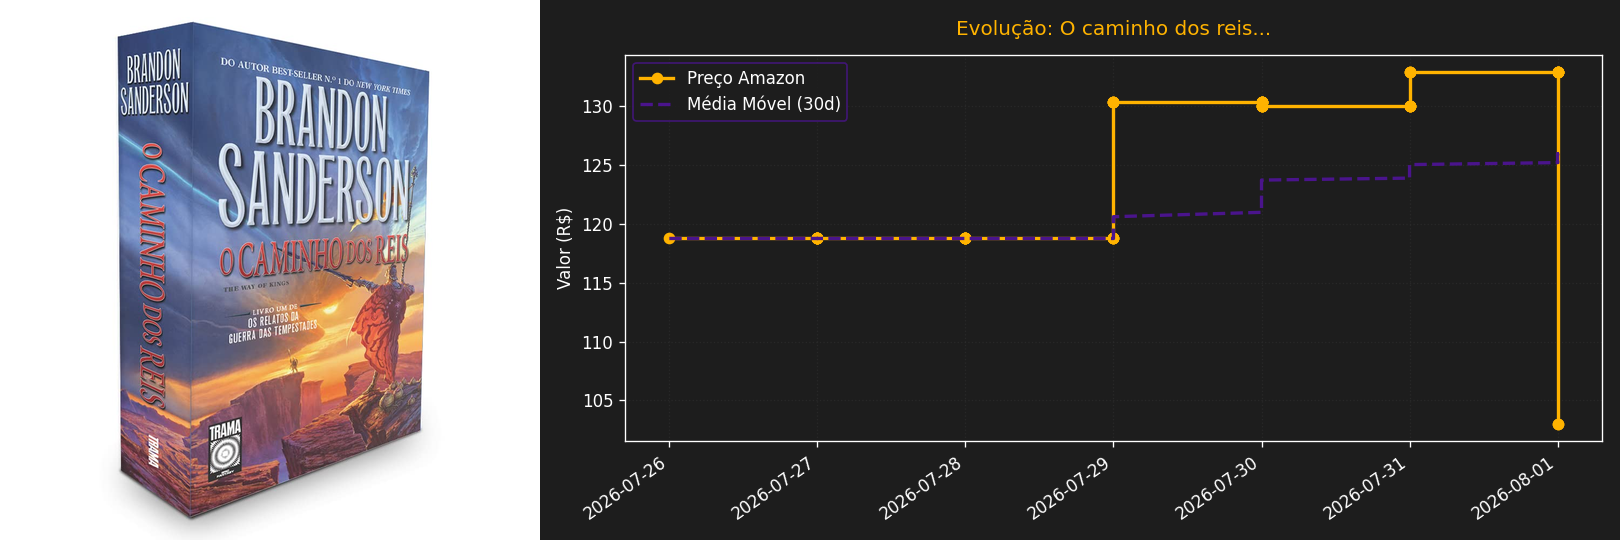
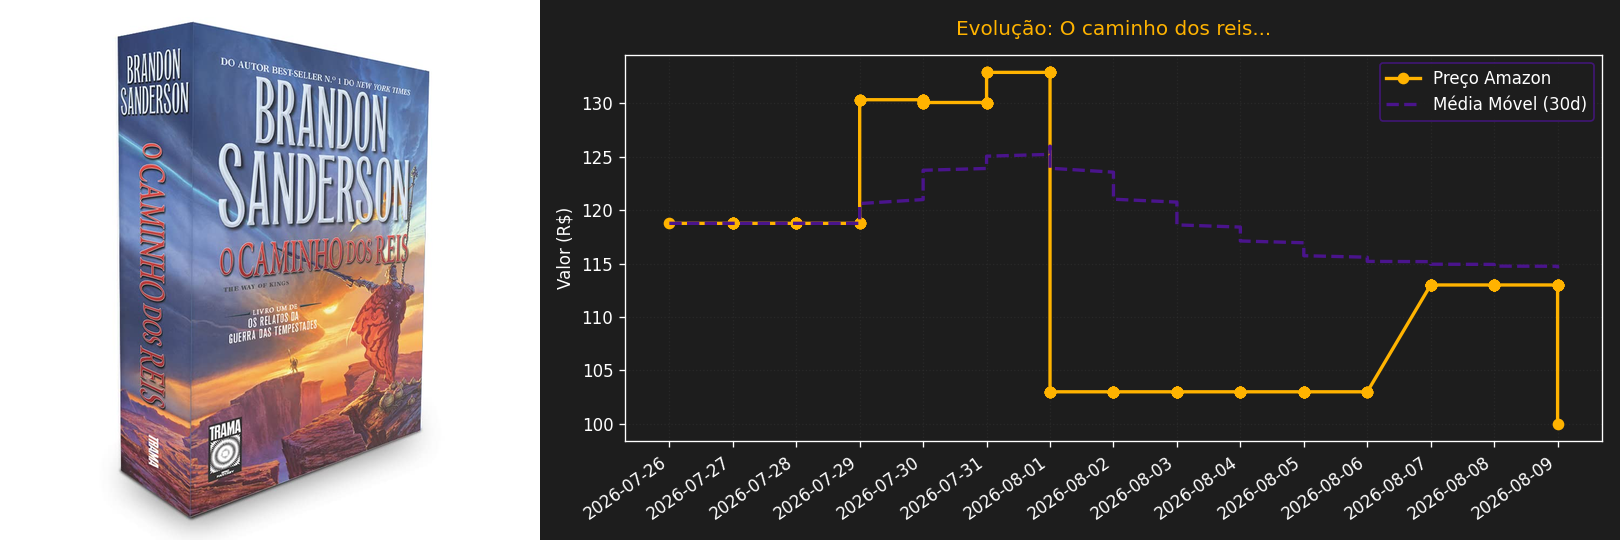
🤖 Bot: Atualização do histórico, portal de ofertas e assets [skip ci]

diff --git a/index.html b/index.html
@@ -5,7 +5,7 @@
     <meta name="viewport" content="width=device-width, initial-scale=1.0">
     <title>Bardo das Promoções | Curadoria de Livros</title>
     <meta name="description" content="Rastreamento matemático de preços de livros de fantasia e sci-fi na Amazon.">
-    <script type="application/ld+json">{"@context": "[https://schema.org](https://schema.org)", "@type": "ItemList", "name": "Promoções Ativas de Fantasia", "itemListElement": [{"@type": "ListItem", "position": 1, "item": {"@type": "Product", "name": "Box Ficção Completa de Edgar Allan Poe", "url": "https://link.amazon/B0bxqDHXJ", "offers": {"@type": "Offer", "priceCurrency": "BRL", "price": 279.9, "availability": "[https://schema.org/InStock](https://schema.org/InStock)"}}}, {"@type": "ListItem", "position": 2, "item": {"@type": "Product", "name": "O sacrifício", "url": "https://link.amazon/B05C027gt", "offers": {"@type": "Offer", "priceCurrency": "BRL", "price": 63.78, "availability": "[https://schema.org/InStock](https://schema.org/InStock)"}}}, {"@type": "ListItem", "position": 3, "item": {"@type": "Product", "name": "A cabeça do santo", "url": "https://link.amazon/B07BZ9Phr", "offers": {"@type": "Offer", "priceCurrency": "BRL", "price": 51.69, "availability": "[https://schema.org/InStock](https://schema.org/InStock)"}}}, {"@type": "ListItem", "position": 4, "item": {"@type": "Product", "name": "A Biblioteca da Meia-Noite", "url": "https://link.amazon/B0ahQKnZG", "offers": {"@type": "Offer", "priceCurrency": "BRL", "price": 40.07, "availability": "[https://schema.org/InStock](https://schema.org/InStock)"}}}, {"@type": "ListItem", "position": 5, "item": {"@type": "Product", "name": "O Hobbit + pôster", "url": "https://link.amazon/B05Sr7Nr7", "offers": {"@type": "Offer", "priceCurrency": "BRL", "price": 43.87, "availability": "[https://schema.org/InStock](https://schema.org/InStock)"}}}, {"@type": "ListItem", "position": 6, "item": {"@type": "Product", "name": "A Ascensão do Dragão", "url": "https://link.amazon/B04OFbHZF", "offers": {"@type": "Offer", "priceCurrency": "BRL", "price": 118.36, "availability": "[https://schema.org/InStock](https://schema.org/InStock)"}}}, {"@type": "ListItem", "position": 7, "item": {"@type": "Product", "name": "O mundo de gelo e fogo", "url": "https://link.amazon/B0bOFsgQ9", "offers": {"@type": "Offer", "priceCurrency": "BRL", "price": 135.28, "availability": "[https://schema.org/InStock](https://schema.org/InStock)"}}}, {"@type": "ListItem", "position": 8, "item": {"@type": "Product", "name": "Box Trilogia O Senhor dos Anéis", "url": "https://link.amazon/B0cOS4omj", "offers": {"@type": "Offer", "priceCurrency": "BRL", "price": 220.07, "availability": "[https://schema.org/InStock](https://schema.org/InStock)"}}}, {"@type": "ListItem", "position": 9, "item": {"@type": "Product", "name": "O cavaleiro dos Sete Reinos", "url": "https://link.amazon/B0e2PzSTe", "offers": {"@type": "Offer", "priceCurrency": "BRL", "price": 78.99, "availability": "[https://schema.org/InStock](https://schema.org/InStock)"}}}, {"@type": "ListItem", "position": 10, "item": {"@type": "Product", "name": "Fogo & Sangue – Volume 1", "url": "https://link.amazon/B01CIGwaZ", "offers": {"@type": "Offer", "priceCurrency": "BRL", "price": 67.14, "availability": "[https://schema.org/InStock](https://schema.org/InStock)"}}}, {"@type": "ListItem", "position": 11, "item": {"@type": "Product", "name": "Box Torre negra", "url": "https://link.amazon/B0czAwuOp", "offers": {"@type": "Offer", "priceCurrency": "BRL", "price": 359.41, "availability": "[https://schema.org/InStock](https://schema.org/InStock)"}}}, {"@type": "ListItem", "position": 12, "item": {"@type": "Product", "name": "Os fragmentos de Bovadium", "url": "https://link.amazon/B0fKkmi1R", "offers": {"@type": "Offer", "priceCurrency": "BRL", "price": 37.51, "availability": "[https://schema.org/InStock](https://schema.org/InStock)"}}}, {"@type": "ListItem", "position": 13, "item": {"@type": "Product", "name": "Mistborn: O Império Final: Livro 1 de Mistborn", "url": "https://link.amazon/B0bJ5jTSU", "offers": {"@type": "Offer", "priceCurrency": "BRL", "price": 61.88, "availability": "[https://schema.org/InStock](https://schema.org/InStock)"}}}, {"@type": "ListItem", "position": 14, "item": {"@type": "Product", "name": "A guerra da papoula", "url": "https://link.amazon/B075ASsRo", "offers": {"@type": "Offer", "priceCurrency": "BRL", "price": 59.9, "availability": "[https://schema.org/InStock](https://schema.org/InStock)"}}}, {"@type": "ListItem", "position": 15, "item": {"@type": "Product", "name": "A república do dragão: 2", "url": "https://link.amazon/B05s4V4tS", "offers": {"@type": "Offer", "priceCurrency": "BRL", "price": 57.89, "availability": "[https://schema.org/InStock](https://schema.org/InStock)"}}}, {"@type": "ListItem", "position": 16, "item": {"@type": "Product", "name": "A deusa em chamas: 3", "url": "https://link.amazon/B00tEF0jN", "offers": {"@type": "Offer", "priceCurrency": "BRL", "price": 59.75, "availability": "[https://schema.org/InStock](https://schema.org/InStock)"}}}, {"@type": "ListItem", "position": 17, "item": {"@type": "Product", "name": "O caminho dos reis", "url": "https://link.amazon/B0g8PJdyP", "offers": {"@type": "Offer", "priceCurrency": "BRL", "price": 113.0, "availability": "[https://schema.org/InStock](https://schema.org/InStock)"}}}, {"@type": "ListItem", "position": 18, "item": {"@type": "Product", "name": "Palavras de Radiância", "url": "https://link.amazon/B09bDCyVl", "offers": {"@type": "Offer", "priceCurrency": "BRL", "price": 152.85, "availability": "[https://schema.org/InStock](https://schema.org/InStock)"}}}, {"@type": "ListItem", "position": 19, "item": {"@type": "Product", "name": "Sacramentadora", "url": "https://link.amazon/B0cBFS3o1", "offers": {"@type": "Offer", "priceCurrency": "BRL", "price": 152.85, "availability": "[https://schema.org/InStock](https://schema.org/InStock)"}}}, {"@type": "ListItem", "position": 20, "item": {"@type": "Product", "name": "Ritmo da Guerra", "url": "https://link.amazon/B0f81O992", "offers": {"@type": "Offer", "priceCurrency": "BRL", "price": 148.29, "availability": "[https://schema.org/InStock](https://schema.org/InStock)"}}}, {"@type": "ListItem", "position": 21, "item": {"@type": "Product", "name": "O alquimista", "url": "https://link.amazon/B00bB1BuS", "offers": {"@type": "Offer", "priceCurrency": "BRL", "price": 42.94, "availability": "[https://schema.org/InStock](https://schema.org/InStock)"}}}, {"@type": "ListItem", "position": 22, "item": {"@type": "Product", "name": "O nome do vento", "url": "https://link.amazon/B0h9jyezR", "offers": {"@type": "Offer", "priceCurrency": "BRL", "price": 51.2, "availability": "[https://schema.org/InStock](https://schema.org/InStock)"}}}, {"@type": "ListItem", "position": 23, "item": {"@type": "Product", "name": "A música do silêncio", "url": "https://link.amazon/B0eRR4Vm5", "offers": {"@type": "Offer", "priceCurrency": "BRL", "price": 39.78, "availability": "[https://schema.org/InStock](https://schema.org/InStock)"}}}, {"@type": "ListItem", "position": 24, "item": {"@type": "Product", "name": "O temor do sábio", "url": "https://link.amazon/B0aqYDLFU", "offers": {"@type": "Offer", "priceCurrency": "BRL", "price": 78.99, "availability": "[https://schema.org/InStock](https://schema.org/InStock)"}}}, {"@type": "ListItem", "position": 25, "item": {"@type": "Product", "name": "Box As crônicas de Artur", "url": "https://link.amazon/B01Lo4CLZ", "offers": {"@type": "Offer", "priceCurrency": "BRL", "price": 165.93, "availability": "[https://schema.org/InStock](https://schema.org/InStock)"}}}, {"@type": "ListItem", "position": 26, "item": {"@type": "Product", "name": "Mistborn: O Poço da Ascensão", "url": "https://link.amazon/B0fHxeIhM", "offers": {"@type": "Offer", "priceCurrency": "BRL", "price": 76.64, "availability": "[https://schema.org/InStock](https://schema.org/InStock)"}}}, {"@type": "ListItem", "position": 27, "item": {"@type": "Product", "name": "Mistborn: O Herói das Eras", "url": "https://link.amazon/B09kGQop8", "offers": {"@type": "Offer", "priceCurrency": "BRL", "price": 67.79, "availability": "[https://schema.org/InStock](https://schema.org/InStock)"}}}]}</script>
+    <script type="application/ld+json">{"@context": "[https://schema.org](https://schema.org)", "@type": "ItemList", "name": "Promoções Ativas de Fantasia", "itemListElement": [{"@type": "ListItem", "position": 1, "item": {"@type": "Product", "name": "Box Ficção Completa de Edgar Allan Poe", "url": "https://link.amazon/B0bxqDHXJ", "offers": {"@type": "Offer", "priceCurrency": "BRL", "price": 279.9, "availability": "[https://schema.org/InStock](https://schema.org/InStock)"}}}, {"@type": "ListItem", "position": 2, "item": {"@type": "Product", "name": "O sacrifício", "url": "https://link.amazon/B05C027gt", "offers": {"@type": "Offer", "priceCurrency": "BRL", "price": 63.78, "availability": "[https://schema.org/InStock](https://schema.org/InStock)"}}}, {"@type": "ListItem", "position": 3, "item": {"@type": "Product", "name": "A cabeça do santo", "url": "https://link.amazon/B07BZ9Phr", "offers": {"@type": "Offer", "priceCurrency": "BRL", "price": 51.69, "availability": "[https://schema.org/InStock](https://schema.org/InStock)"}}}, {"@type": "ListItem", "position": 4, "item": {"@type": "Product", "name": "A Biblioteca da Meia-Noite", "url": "https://link.amazon/B0ahQKnZG", "offers": {"@type": "Offer", "priceCurrency": "BRL", "price": 40.07, "availability": "[https://schema.org/InStock](https://schema.org/InStock)"}}}, {"@type": "ListItem", "position": 5, "item": {"@type": "Product", "name": "O Hobbit + pôster", "url": "https://link.amazon/B05Sr7Nr7", "offers": {"@type": "Offer", "priceCurrency": "BRL", "price": 43.87, "availability": "[https://schema.org/InStock](https://schema.org/InStock)"}}}, {"@type": "ListItem", "position": 6, "item": {"@type": "Product", "name": "A Ascensão do Dragão", "url": "https://link.amazon/B04OFbHZF", "offers": {"@type": "Offer", "priceCurrency": "BRL", "price": 118.36, "availability": "[https://schema.org/InStock](https://schema.org/InStock)"}}}, {"@type": "ListItem", "position": 7, "item": {"@type": "Product", "name": "O mundo de gelo e fogo", "url": "https://link.amazon/B0bOFsgQ9", "offers": {"@type": "Offer", "priceCurrency": "BRL", "price": 135.28, "availability": "[https://schema.org/InStock](https://schema.org/InStock)"}}}, {"@type": "ListItem", "position": 8, "item": {"@type": "Product", "name": "Box Trilogia O Senhor dos Anéis", "url": "https://link.amazon/B0cOS4omj", "offers": {"@type": "Offer", "priceCurrency": "BRL", "price": 220.07, "availability": "[https://schema.org/InStock](https://schema.org/InStock)"}}}, {"@type": "ListItem", "position": 9, "item": {"@type": "Product", "name": "O cavaleiro dos Sete Reinos", "url": "https://link.amazon/B0e2PzSTe", "offers": {"@type": "Offer", "priceCurrency": "BRL", "price": 78.99, "availability": "[https://schema.org/InStock](https://schema.org/InStock)"}}}, {"@type": "ListItem", "position": 10, "item": {"@type": "Product", "name": "Fogo & Sangue – Volume 1", "url": "https://link.amazon/B01CIGwaZ", "offers": {"@type": "Offer", "priceCurrency": "BRL", "price": 67.14, "availability": "[https://schema.org/InStock](https://schema.org/InStock)"}}}, {"@type": "ListItem", "position": 11, "item": {"@type": "Product", "name": "Box Torre negra", "url": "https://link.amazon/B0czAwuOp", "offers": {"@type": "Offer", "priceCurrency": "BRL", "price": 359.41, "availability": "[https://schema.org/InStock](https://schema.org/InStock)"}}}, {"@type": "ListItem", "position": 12, "item": {"@type": "Product", "name": "Os fragmentos de Bovadium", "url": "https://link.amazon/B0fKkmi1R", "offers": {"@type": "Offer", "priceCurrency": "BRL", "price": 37.51, "availability": "[https://schema.org/InStock](https://schema.org/InStock)"}}}, {"@type": "ListItem", "position": 13, "item": {"@type": "Product", "name": "Mistborn: O Império Final: Livro 1 de Mistborn", "url": "https://link.amazon/B0bJ5jTSU", "offers": {"@type": "Offer", "priceCurrency": "BRL", "price": 61.88, "availability": "[https://schema.org/InStock](https://schema.org/InStock)"}}}, {"@type": "ListItem", "position": 14, "item": {"@type": "Product", "name": "A guerra da papoula", "url": "https://link.amazon/B075ASsRo", "offers": {"@type": "Offer", "priceCurrency": "BRL", "price": 59.9, "availability": "[https://schema.org/InStock](https://schema.org/InStock)"}}}, {"@type": "ListItem", "position": 15, "item": {"@type": "Product", "name": "A república do dragão: 2", "url": "https://link.amazon/B05s4V4tS", "offers": {"@type": "Offer", "priceCurrency": "BRL", "price": 57.89, "availability": "[https://schema.org/InStock](https://schema.org/InStock)"}}}, {"@type": "ListItem", "position": 16, "item": {"@type": "Product", "name": "A deusa em chamas: 3", "url": "https://link.amazon/B00tEF0jN", "offers": {"@type": "Offer", "priceCurrency": "BRL", "price": 59.75, "availability": "[https://schema.org/InStock](https://schema.org/InStock)"}}}, {"@type": "ListItem", "position": 17, "item": {"@type": "Product", "name": "O caminho dos reis", "url": "https://link.amazon/B0g8PJdyP", "offers": {"@type": "Offer", "priceCurrency": "BRL", "price": 100.0, "availability": "[https://schema.org/InStock](https://schema.org/InStock)"}}}, {"@type": "ListItem", "position": 18, "item": {"@type": "Product", "name": "Palavras de Radiância", "url": "https://link.amazon/B09bDCyVl", "offers": {"@type": "Offer", "priceCurrency": "BRL", "price": 152.85, "availability": "[https://schema.org/InStock](https://schema.org/InStock)"}}}, {"@type": "ListItem", "position": 19, "item": {"@type": "Product", "name": "Sacramentadora", "url": "https://link.amazon/B0cBFS3o1", "offers": {"@type": "Offer", "priceCurrency": "BRL", "price": 152.85, "availability": "[https://schema.org/InStock](https://schema.org/InStock)"}}}, {"@type": "ListItem", "position": 20, "item": {"@type": "Product", "name": "Ritmo da Guerra", "url": "https://link.amazon/B0f81O992", "offers": {"@type": "Offer", "priceCurrency": "BRL", "price": 148.29, "availability": "[https://schema.org/InStock](https://schema.org/InStock)"}}}, {"@type": "ListItem", "position": 21, "item": {"@type": "Product", "name": "O alquimista", "url": "https://link.amazon/B00bB1BuS", "offers": {"@type": "Offer", "priceCurrency": "BRL", "price": 42.94, "availability": "[https://schema.org/InStock](https://schema.org/InStock)"}}}, {"@type": "ListItem", "position": 22, "item": {"@type": "Product", "name": "O nome do vento", "url": "https://link.amazon/B0h9jyezR", "offers": {"@type": "Offer", "priceCurrency": "BRL", "price": 51.2, "availability": "[https://schema.org/InStock](https://schema.org/InStock)"}}}, {"@type": "ListItem", "position": 23, "item": {"@type": "Product", "name": "A música do silêncio", "url": "https://link.amazon/B0eRR4Vm5", "offers": {"@type": "Offer", "priceCurrency": "BRL", "price": 39.78, "availability": "[https://schema.org/InStock](https://schema.org/InStock)"}}}, {"@type": "ListItem", "position": 24, "item": {"@type": "Product", "name": "O temor do sábio", "url": "https://link.amazon/B0aqYDLFU", "offers": {"@type": "Offer", "priceCurrency": "BRL", "price": 78.99, "availability": "[https://schema.org/InStock](https://schema.org/InStock)"}}}, {"@type": "ListItem", "position": 25, "item": {"@type": "Product", "name": "Box As crônicas de Artur", "url": "https://link.amazon/B01Lo4CLZ", "offers": {"@type": "Offer", "priceCurrency": "BRL", "price": 165.93, "availability": "[https://schema.org/InStock](https://schema.org/InStock)"}}}, {"@type": "ListItem", "position": 26, "item": {"@type": "Product", "name": "Mistborn: O Poço da Ascensão", "url": "https://link.amazon/B0fHxeIhM", "offers": {"@type": "Offer", "priceCurrency": "BRL", "price": 76.64, "availability": "[https://schema.org/InStock](https://schema.org/InStock)"}}}, {"@type": "ListItem", "position": 27, "item": {"@type": "Product", "name": "Mistborn: O Herói das Eras", "url": "https://link.amazon/B09kGQop8", "offers": {"@type": "Offer", "priceCurrency": "BRL", "price": 67.79, "availability": "[https://schema.org/InStock](https://schema.org/InStock)"}}}]}</script>
     <link href="[https://fonts.googleapis.com/css2?family=Inter:wght@300;400;600;800&family=Playfair+Display:ital,wght@0,700;1,700&display=swap](https://fonts.googleapis.com/css2?family=Inter:wght@300;400;600;800&family=Playfair+Display:ital,wght@0,700;1,700&display=swap)" rel="stylesheet">
     <script src="[https://cdn.tailwindcss.com](https://cdn.tailwindcss.com)"></script>
     <script>
@@ -45,7 +45,7 @@
                                 <span class="text-xl font-bold text-bardo-success">R$ 279,90</span>
                             </div>
                             <div class="flex justify-between text-sm">
-                                <span class="text-gray-500">Média (30 dias)</span><span class="text-gray-300">R$ 213,55</span>
+                                <span class="text-gray-500">Média (30 dias)</span><span class="text-gray-300">R$ 214,00</span>
                             </div>
                             <div class="flex justify-between text-sm">
                                 <span class="text-gray-500">Menor Histórico</span><span class="text-gray-300">R$ 161,00</span>
@@ -93,7 +93,7 @@
                                 <span class="text-xl font-bold text-bardo-success">R$ 51,69</span>
                             </div>
                             <div class="flex justify-between text-sm">
-                                <span class="text-gray-500">Média (30 dias)</span><span class="text-gray-300">R$ 43,78</span>
+                                <span class="text-gray-500">Média (30 dias)</span><span class="text-gray-300">R$ 43,83</span>
                             </div>
                             <div class="flex justify-between text-sm">
                                 <span class="text-gray-500">Menor Histórico</span><span class="text-gray-300">R$ 33,36</span>
@@ -117,7 +117,7 @@
                                 <span class="text-xl font-bold text-bardo-success">R$ 40,07</span>
                             </div>
                             <div class="flex justify-between text-sm">
-                                <span class="text-gray-500">Média (30 dias)</span><span class="text-gray-300">R$ 41,24</span>
+                                <span class="text-gray-500">Média (30 dias)</span><span class="text-gray-300">R$ 41,23</span>
                             </div>
                             <div class="flex justify-between text-sm">
                                 <span class="text-gray-500">Menor Histórico</span><span class="text-gray-300">R$ 40,07</span>
@@ -141,7 +141,7 @@
                                 <span class="text-xl font-bold text-bardo-success">R$ 43,87</span>
                             </div>
                             <div class="flex justify-between text-sm">
-                                <span class="text-gray-500">Média (30 dias)</span><span class="text-gray-300">R$ 44,79</span>
+                                <span class="text-gray-500">Média (30 dias)</span><span class="text-gray-300">R$ 44,78</span>
                             </div>
                             <div class="flex justify-between text-sm">
                                 <span class="text-gray-500">Menor Histórico</span><span class="text-gray-300">R$ 43,87</span>
@@ -165,7 +165,7 @@
                                 <span class="text-xl font-bold text-bardo-success">R$ 118,36</span>
                             </div>
                             <div class="flex justify-between text-sm">
-                                <span class="text-gray-500">Média (30 dias)</span><span class="text-gray-300">R$ 129,13</span>
+                                <span class="text-gray-500">Média (30 dias)</span><span class="text-gray-300">R$ 129,06</span>
                             </div>
                             <div class="flex justify-between text-sm">
                                 <span class="text-gray-500">Menor Histórico</span><span class="text-gray-300">R$ 118,36</span>
@@ -189,7 +189,7 @@
                                 <span class="text-xl font-bold text-bardo-success">R$ 135,28</span>
                             </div>
                             <div class="flex justify-between text-sm">
-                                <span class="text-gray-500">Média (30 dias)</span><span class="text-gray-300">R$ 133,69</span>
+                                <span class="text-gray-500">Média (30 dias)</span><span class="text-gray-300">R$ 133,70</span>
                             </div>
                             <div class="flex justify-between text-sm">
                                 <span class="text-gray-500">Menor Histórico</span><span class="text-gray-300">R$ 128,77</span>
@@ -213,7 +213,7 @@
                                 <span class="text-xl font-bold text-bardo-success">R$ 220,07</span>
                             </div>
                             <div class="flex justify-between text-sm">
-                                <span class="text-gray-500">Média (30 dias)</span><span class="text-gray-300">R$ 207,01</span>
+                                <span class="text-gray-500">Média (30 dias)</span><span class="text-gray-300">R$ 207,09</span>
                             </div>
                             <div class="flex justify-between text-sm">
                                 <span class="text-gray-500">Menor Histórico</span><span class="text-gray-300">R$ 199,40</span>
@@ -261,7 +261,7 @@
                                 <span class="text-xl font-bold text-bardo-success">R$ 67,14</span>
                             </div>
                             <div class="flex justify-between text-sm">
-                                <span class="text-gray-500">Média (30 dias)</span><span class="text-gray-300">R$ 79,16</span>
+                                <span class="text-gray-500">Média (30 dias)</span><span class="text-gray-300">R$ 79,07</span>
                             </div>
                             <div class="flex justify-between text-sm">
                                 <span class="text-gray-500">Menor Histórico</span><span class="text-gray-300">R$ 67,14</span>
@@ -285,7 +285,7 @@
                                 <span class="text-xl font-bold text-bardo-success">R$ 359,41</span>
                             </div>
                             <div class="flex justify-between text-sm">
-                                <span class="text-gray-500">Média (30 dias)</span><span class="text-gray-300">R$ 382,61</span>
+                                <span class="text-gray-500">Média (30 dias)</span><span class="text-gray-300">R$ 382,44</span>
                             </div>
                             <div class="flex justify-between text-sm">
                                 <span class="text-gray-500">Menor Histórico</span><span class="text-gray-300">R$ 343,37</span>
@@ -309,7 +309,7 @@
                                 <span class="text-xl font-bold text-bardo-success">R$ 37,51</span>
                             </div>
                             <div class="flex justify-between text-sm">
-                                <span class="text-gray-500">Média (30 dias)</span><span class="text-gray-300">R$ 38,98</span>
+                                <span class="text-gray-500">Média (30 dias)</span><span class="text-gray-300">R$ 38,97</span>
                             </div>
                             <div class="flex justify-between text-sm">
                                 <span class="text-gray-500">Menor Histórico</span><span class="text-gray-300">R$ 37,51</span>
@@ -333,7 +333,7 @@
                                 <span class="text-xl font-bold text-bardo-success">R$ 61,88</span>
                             </div>
                             <div class="flex justify-between text-sm">
-                                <span class="text-gray-500">Média (30 dias)</span><span class="text-gray-300">R$ 66,89</span>
+                                <span class="text-gray-500">Média (30 dias)</span><span class="text-gray-300">R$ 66,85</span>
                             </div>
                             <div class="flex justify-between text-sm">
                                 <span class="text-gray-500">Menor Histórico</span><span class="text-gray-300">R$ 61,88</span>
@@ -357,7 +357,7 @@
                                 <span class="text-xl font-bold text-bardo-success">R$ 59,90</span>
                             </div>
                             <div class="flex justify-between text-sm">
-                                <span class="text-gray-500">Média (30 dias)</span><span class="text-gray-300">R$ 55,43</span>
+                                <span class="text-gray-500">Média (30 dias)</span><span class="text-gray-300">R$ 55,47</span>
                             </div>
                             <div class="flex justify-between text-sm">
                                 <span class="text-gray-500">Menor Histórico</span><span class="text-gray-300">R$ 54,14</span>
@@ -426,13 +426,13 @@
                         <div class="space-y-3 mb-6">
                             <div class="flex justify-between border-b border-gray-700/50 pb-3">
                                 <span class="text-sm text-gray-400">Preço Agora</span>
-                                <span class="text-xl font-bold text-bardo-success">R$ 113,00</span>
+                                <span class="text-xl font-bold text-bardo-success">R$ 100,00</span>
                             </div>
                             <div class="flex justify-between text-sm">
-                                <span class="text-gray-500">Média (30 dias)</span><span class="text-gray-300">R$ 114,67</span>
+                                <span class="text-gray-500">Média (30 dias)</span><span class="text-gray-300">R$ 114,55</span>
                             </div>
                             <div class="flex justify-between text-sm">
-                                <span class="text-gray-500">Menor Histórico</span><span class="text-gray-300">R$ 103,00</span>
+                                <span class="text-gray-500">Menor Histórico</span><span class="text-gray-300">R$ 100,00</span>
                             </div>
                         </div>
                     </div>
@@ -453,7 +453,7 @@
                                 <span class="text-xl font-bold text-bardo-success">R$ 152,85</span>
                             </div>
                             <div class="flex justify-between text-sm">
-                                <span class="text-gray-500">Média (30 dias)</span><span class="text-gray-300">R$ 154,27</span>
+                                <span class="text-gray-500">Média (30 dias)</span><span class="text-gray-300">R$ 154,26</span>
                             </div>
                             <div class="flex justify-between text-sm">
                                 <span class="text-gray-500">Menor Histórico</span><span class="text-gray-300">R$ 152,85</span>
@@ -501,7 +501,7 @@
                                 <span class="text-xl font-bold text-bardo-success">R$ 148,29</span>
                             </div>
                             <div class="flex justify-between text-sm">
-                                <span class="text-gray-500">Média (30 dias)</span><span class="text-gray-300">R$ 144,49</span>
+                                <span class="text-gray-500">Média (30 dias)</span><span class="text-gray-300">R$ 144,52</span>
                             </div>
                             <div class="flex justify-between text-sm">
                                 <span class="text-gray-500">Menor Histórico</span><span class="text-gray-300">R$ 129,73</span>
@@ -549,7 +549,7 @@
                                 <span class="text-xl font-bold text-bardo-success">R$ 51,20</span>
                             </div>
                             <div class="flex justify-between text-sm">
-                                <span class="text-gray-500">Média (30 dias)</span><span class="text-gray-300">R$ 52,75</span>
+                                <span class="text-gray-500">Média (30 dias)</span><span class="text-gray-300">R$ 52,74</span>
                             </div>
                             <div class="flex justify-between text-sm">
                                 <span class="text-gray-500">Menor Histórico</span><span class="text-gray-300">R$ 51,20</span>
@@ -645,7 +645,7 @@
                                 <span class="text-xl font-bold text-bardo-success">R$ 76,64</span>
                             </div>
                             <div class="flex justify-between text-sm">
-                                <span class="text-gray-500">Média (30 dias)</span><span class="text-gray-300">R$ 78,69</span>
+                                <span class="text-gray-500">Média (30 dias)</span><span class="text-gray-300">R$ 78,66</span>
                             </div>
                             <div class="flex justify-between text-sm">
                                 <span class="text-gray-500">Menor Histórico</span><span class="text-gray-300">R$ 76,64</span>
@@ -669,7 +669,7 @@
                                 <span class="text-xl font-bold text-bardo-success">R$ 67,79</span>
                             </div>
                             <div class="flex justify-between text-sm">
-                                <span class="text-gray-500">Média (30 dias)</span><span class="text-gray-300">R$ 69,60</span>
+                                <span class="text-gray-500">Média (30 dias)</span><span class="text-gray-300">R$ 69,58</span>
                             </div>
                             <div class="flex justify-between text-sm">
                                 <span class="text-gray-500">Menor Histórico</span><span class="text-gray-300">R$ 67,79</span>
